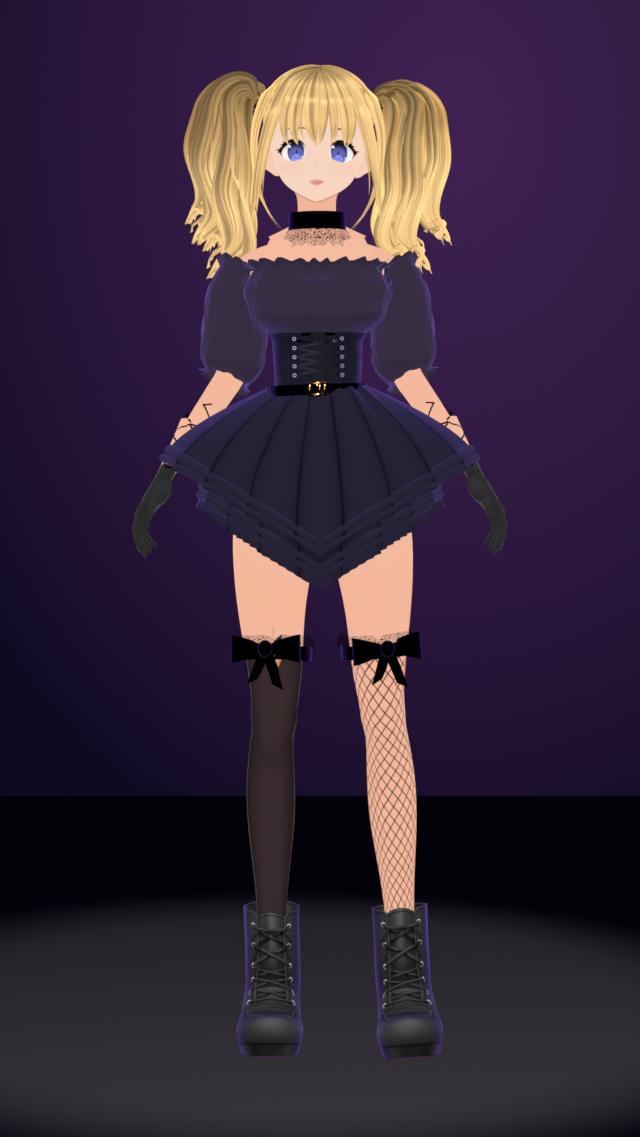
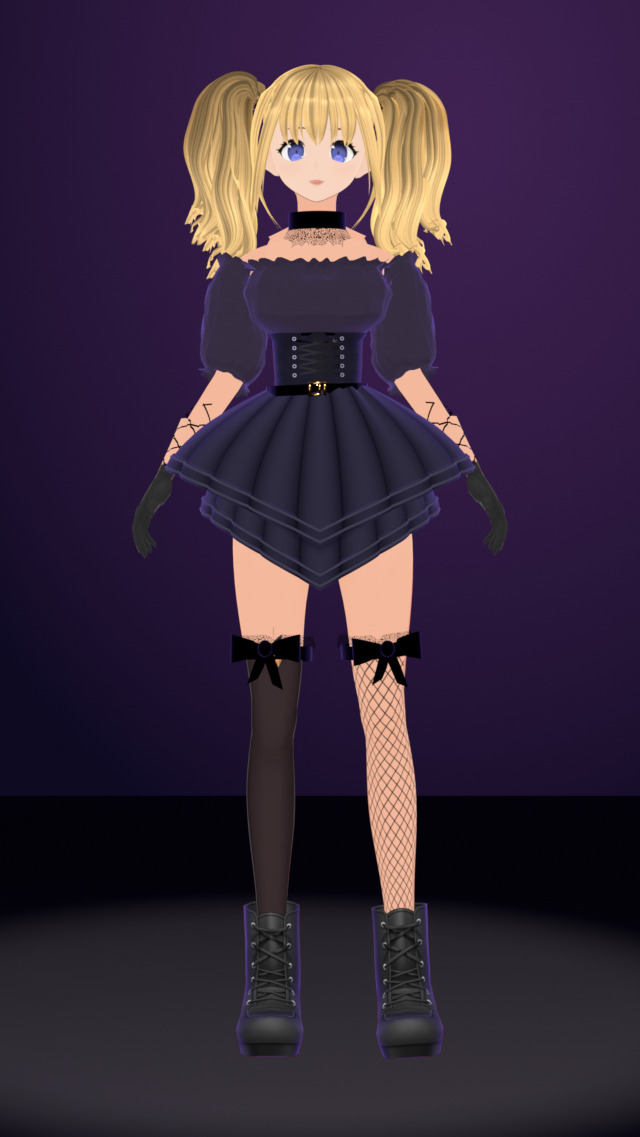
Goth agent skirt: rolled panels, tiers spaced like the reference
Side by side with the reference at the same scale, three things differed:

- tone: the reference's skirt spans ~2:1 from the light middle of a
  panel to its valleys; ours spanned 1.4:1 (flat panels, thin fold
  lines) and read as a lampshade. Panels are now soft rolls with a
  valley at each fold (smaller knife laps), painted light-to-dark to
  match; measured mean (39,37,56) vs the reference's (43,39,56).
- tier spacing: ~7 cm of the lower tier shows below the upper at the
  front in the reference, 4 cm on ours, which stacked the two hem bands
  into stripes. Upper tier shortened, lower lengthened to the same
  overall length (front point ~52% of the figure).
- hem: two clean bands a shade darker, with thin light cords, and no
  frill under the lower tier (the reference has none); the cords were
  thick violet bands before.

Claude-Session: https://claude.ai/code/session_011M9r3rTGgXhm4baeKDbpr3

diff --git a/build/tools/blender-agent-refine.py b/build/tools/blender-agent-refine.py
@@ -30,17 +30,18 @@ p.add_argument('--sleeve-frill', type=float, default=0.014)  # ruffle on the sle
 p.add_argument('--puff-r', type=float, default=0.016)     # own sleeve: extra radius at the middle of the puff
 p.add_argument('--vroid-sleeves', action='store_true')     # keep and puff VRoid's sleeve instead of building one
 p.add_argument('--underbust', type=float, default=1.2)      # corset above this height becomes a navy bodice (0 = keep)
-p.add_argument('--skirt-side', type=float, default=0.195)    # lower tier's length at the sides, from the waistband (m)
-p.add_argument('--skirt-front', type=float, default=0.327)  # ... at its points, centre front and back
+p.add_argument('--skirt-side', type=float, default=0.22)    # lower tier's length at the sides, from the waistband (m)
+p.add_argument('--skirt-front', type=float, default=0.341)  # ... at its points, centre front and back
 p.add_argument('--skirt-radius', type=float, default=0.26)  # how far the upper tier's hem stands out at the sides (its corners)
 p.add_argument('--skirt-radius-front', type=float, default=0.24)   # ... and at the front and back points
 p.add_argument('--under-radius', type=float, default=0.205) # the lower tier hangs narrower and steeper under it: at the sides
 p.add_argument('--under-radius-front', type=float, default=0.225)  # ... and at the points
 p.add_argument('--skirt-flare', type=float, default=1.6)    # >1: flares out fast below the belt, as over a petticoat
-p.add_argument('--tier-side', type=float, default=0.065)    # the upper tier ends this much above the lower at the sides
-p.add_argument('--tier-front', type=float, default=0.040)   # ... and at the points
+p.add_argument('--tier-side', type=float, default=0.075)    # the upper tier ends this much above the lower at the sides
+p.add_argument('--tier-front', type=float, default=0.073)   # ... and at the points
 p.add_argument('--pleats', type=int, default=20)            # flat panels with crisp folds
-p.add_argument('--knife', type=float, default=0.035)        # knife-pleat lap at the hem, as a fraction of the radius
+p.add_argument('--knife', type=float, default=0.025)        # knife-pleat lap at the hem, as a fraction of the radius
+p.add_argument('--fold', type=float, default=0.035)         # rounded panels: how deep the valley at each fold is, same units
 p.add_argument('--cloth-toony', type=float, default=0.5)
 p.add_argument('--rim', type=float, default=0.55)          # strength of the built-in rim glow (0 = VRoid's)
 p.add_argument('--hair-lines', type=int, default=130)     # strand lines painted into the hair texture (0 = VRoid's)
@@ -49,8 +50,8 @@ p.add_argument('--hair-shade', type=int, nargs=3, default=(140, 84, 40))   # sRG
 p.add_argument('--fishnet-cell', type=float, default=34); p.add_argument('--fishnet-width', type=float, default=3.2)   # texels at 2048
 p.add_argument('--blouse', type=int, default=1)            # fitted gathered blouse over the upper torso, straight neckline
 p.add_argument('--neckline-drop', type=float, default=0.034)   # neckline below the shoulder joints
-p.add_argument('--piping', type=int, nargs=3, default=(38, 37, 52))   # sRGB piping colour (subtle: the cords' round shape catches the light)
-p.add_argument('--ruffle', type=float, default=0.014)     # frill under the lower tier's hem
+p.add_argument('--piping', type=int, nargs=3, default=(62, 60, 78))   # sRGB piping colour: thin light cords, as in the reference
+p.add_argument('--ruffle', type=float, default=0.0)       # frill under the lower tier's hem (the reference has none)
 p.add_argument('--tail-len', type=float, default=0.28)      # tie to tip, metres (--tail-tip overrides)
 p.add_argument('--tail-tip', type=float, default=0.0)
 p.add_argument('--tail-root', type=float, default=0.0);   # 0 = measure (top of the tail strands - 4 cm)
@@ -610,7 +611,8 @@ def skirt_r(th, drop, D, R, off, k, t):
     on panel k at t (0..1) across it."""
     S = min(1.0, drop / D); rw = r_waist(th)
     r = rw + (R - rw) * (1 - (1 - S) ** a.skirt_flare) + off * S ** 0.5
-    return r * math.cos(math.pi / a.pleats) / math.cos((t - 0.5) * 2 * math.pi / a.pleats) * knife(k, t, S)
+    rounded = 1 - a.fold * S ** 0.7 * (1 - math.sin(math.pi * t)) ** 1.5      # each panel a soft roll, valleys at the folds
+    return r * math.cos(math.pi / a.pleats) / math.cos((t - 0.5) * 2 * math.pi / a.pleats) * knife(k, t, S) * rounded
 def texel_uv(mat, target):
     img = lit_image(mat); W, H = img.size
     px = np.array(img.pixels[:], dtype=np.float32).reshape(H, W, 4)
@@ -656,12 +658,12 @@ def strip(rows, tier, folds, ncols=400):
                 STEPS[f] = 1 if r1 > r2 else -1
                 for e in f.edges: e.smooth = False
     return grid
-CORD = lambda d0: [(d0 + 0.001, 0.0052, 1), (d0 - 0.0003, 0.0068, 1), (d0 - 0.0025, 0.0074, 1), (d0 - 0.0047, 0.0068, 1),
-                   (d0 - 0.006, 0.0052, 1), (d0 - 0.007, 0.004, 1)]            # a round cord across the band
+CORD = lambda d0: [(d0, 0.0046, 1), (d0 - 0.0009, 0.0058, 1), (d0 - 0.0021, 0.0058, 1), (d0 - 0.003, 0.0046, 1),
+                   (d0 - 0.0035, 0.004, 1)]                                   # a thin round cord across the band
 for D, Rt, off in ((D_low, R_low, 0.0), (D_up, R_up, 0.008)):   # lower tier, then the upper one outside it
     rows = [((lambda th, u=u: (D(th) - 0.027) * u), 0.0, 0) for u in np.linspace(0, 1, 34)]
-    band = [(0.027, 0.004, 0), (0.0255, 0.004, 0)] + CORD(0.0245) + [(0.0105, 0.004, 0)] + CORD(0.0095) + \
-           [(0.0, 0.004, 0), (-0.0015, 0.002, 0), (-0.002, -0.0015, 0)]        # the hem band is a layer: two cords, a rolled edge
+    band = [(0.027, 0.004, 2), (0.0255, 0.004, 2)] + CORD(0.0245) + [(0.0075, 0.004, 2)] + CORD(0.0065) + \
+           [(0.0, 0.004, 2), (-0.0015, 0.002, 2), (-0.002, -0.0015, 2)]        # the hem band is a layer: two cords, a rolled edge
     rows += [((lambda th, d0=d0: D(th) - d0), lift, m_) for d0, lift, m_ in band]
     strip(rows, (D, Rt, off), True)
 if a.ruffle:   # a small gathered frill under the lower tier, finely sampled (gathers alias into teeth otherwise)
@@ -676,18 +678,21 @@ for f in sb.faces:
 # MToon's toon shading flattens the panels to one tone from the front, so the creases are painted in as well: a
 # dark line at each fold and a soft falloff across the panel, and the lower tier darkens just under the upper's edge
 PW, PH = 256, 256; U_ = (np.arange(PW) + 0.5) / PW; V_ = (np.arange(PH) + 0.5) / PH
-d_ = np.minimum(U_, 1 - U_); shade_ = (1 - 0.42 * np.exp(-(d_ / 0.035) ** 2)) * (1 - 0.14 * (1 - np.sin(np.pi * U_)) ** 2)
+d_ = np.minimum(U_, 1 - U_); shade_ = (0.52 + 0.48 * np.sin(np.pi * U_) ** 0.7) * (1 - 0.25 * np.exp(-(d_ / 0.03) ** 2))   # rolls: light middle,
+# dark valleys (the reference spans ~2:1 light to dark); overall 12% lighter, as the reference's skirt measures
 q_ = (0.5 - V_) / 0.04; shadow_ = np.where((q_ >= 0) & (q_ <= 1), 1 - 0.38 * np.clip(1 - q_, 0, 1) ** 1.2, 1.0)
 flat_ = np.array(lit_image(SKIRT_MAT).pixels[:], dtype=np.float32).reshape(-1, 4); flat_ = flat_[flat_[:, 3] > 0.5][:, :3].mean(0)
 pimg = bpy.data.images.new('Skirt panels', PW, PH, alpha=True); pp_ = np.ones((PH, PW, 4), np.float32)
-pp_[..., :3] = flat_[None, None, :] * ((shade_ / shade_.mean())[None, :] * shadow_[:, None])[..., None]
+pp_[..., :3] = flat_[None, None, :] * ((shade_ / shade_.mean() * 1.12)[None, :] * shadow_[:, None])[..., None]
 pimg.pixels[:] = np.clip(pp_, 0, 1).ravel(); pimg.pack()
 panel_mat = SKIRT_MAT.copy(); panel_mat.name = SKIRT_MAT.name.split(' (')[0] + ' panels'   # keeps the cloth key: soft shading, rim
 old_ = lit_image(SKIRT_MAT)
 for n_ in panel_mat.node_tree.nodes:
     if n_.type == 'TEX_IMAGE' and n_.image == old_: n_.image = pimg
 sme = bpy.data.meshes.new('Skirt'); sb.to_mesh(sme); sb.free()
-sob = bpy.data.objects.new('Skirt', sme); coll.objects.link(sob); sme.materials.append(panel_mat); sme.materials.append(trim)
+band_mat = panel_mat.copy(); band_mat.name = panel_mat.name.replace(' panels', ' band')   # the bands read as a border: a shade darker
+lc_ = mtoon(band_mat).inputs['Lit Color']; lc_.default_value = (*[c * 0.82 for c in lc_.default_value[:3]], 1.0)
+sob = bpy.data.objects.new('Skirt', sme); coll.objects.link(sob); sme.materials.append(panel_mat); sme.materials.append(trim); sme.materials.append(band_mat)
 sob.parent = arm; sob.modifiers.new('Armature', 'ARMATURE').object = arm
 print('SKIRT rebuilt: %d panels; lower tier %.3f long at the sides / %.3f at the points, upper out to %.3f / %.3f; %d verts'
       % (a.pleats, a.skirt_side, a.skirt_front, a.skirt_radius, a.skirt_radius_front, len(sme.vertices)))

diff --git a/design/blender/agent/README.md b/design/blender/agent/README.md
@@ -152,17 +152,21 @@ reference picture:
   reads as an underbust piece over the blouse, with a narrow binding on
   its top edge.
 - **Skirt**: VRoid's bell skirt is replaced by one built from scratch after
-  the reference: 20 knife-pleated panels, each lapping over the next
-  (mirrored left and right, the centre front and back panels flat), so
-  every fold is a small ledge and the hems step - that and the raised
-  hem bands are what make the reference's layers read. It flares out fast below
+  the reference: 20 panels, each a soft roll with a valley at its fold,
+  knife-pleated so it laps a little over the next (mirrored left and
+  right, the centre front and back panels flat) and the hems step at
+  each fold. Measured on the reference, its skirt spans about 2:1 from
+  the light middle of a panel to its dark valleys; flat panels with thin
+  fold lines gave 1.4:1 and read as a lampshade. It flares out fast below
   the belt as over a petticoat, in two tiers whose hems make a V from the
   front - short at the sides, a deep point at the centre front and back.
   The upper tier stands out to wide corners at the sides (40% down the
   figure, like the reference) while the lower tier hangs narrower and
-  steeper under it and shows below. Each hem is a band standing off its
-  tier, with two round cords across it and a rolled edge; a small
-  gathered frill hangs under the lower one. Toon shading flattens the
+  steeper under it; about 7 cm of it shows below the upper tier at the
+  front, as in the reference (4 cm stacked the two hem bands into
+  stripes). Each hem is a band standing off its tier, a shade darker,
+  with two thin light cords along its edges and a rolled edge; there is
+  no frill under it, as in the reference. Toon shading flattens the
   panels to one tone from the front, so the creases are also painted into
   a small texture of their own (a dark line at each fold, a soft falloff
   across each panel, and a shadow on the lower tier just under the upper
